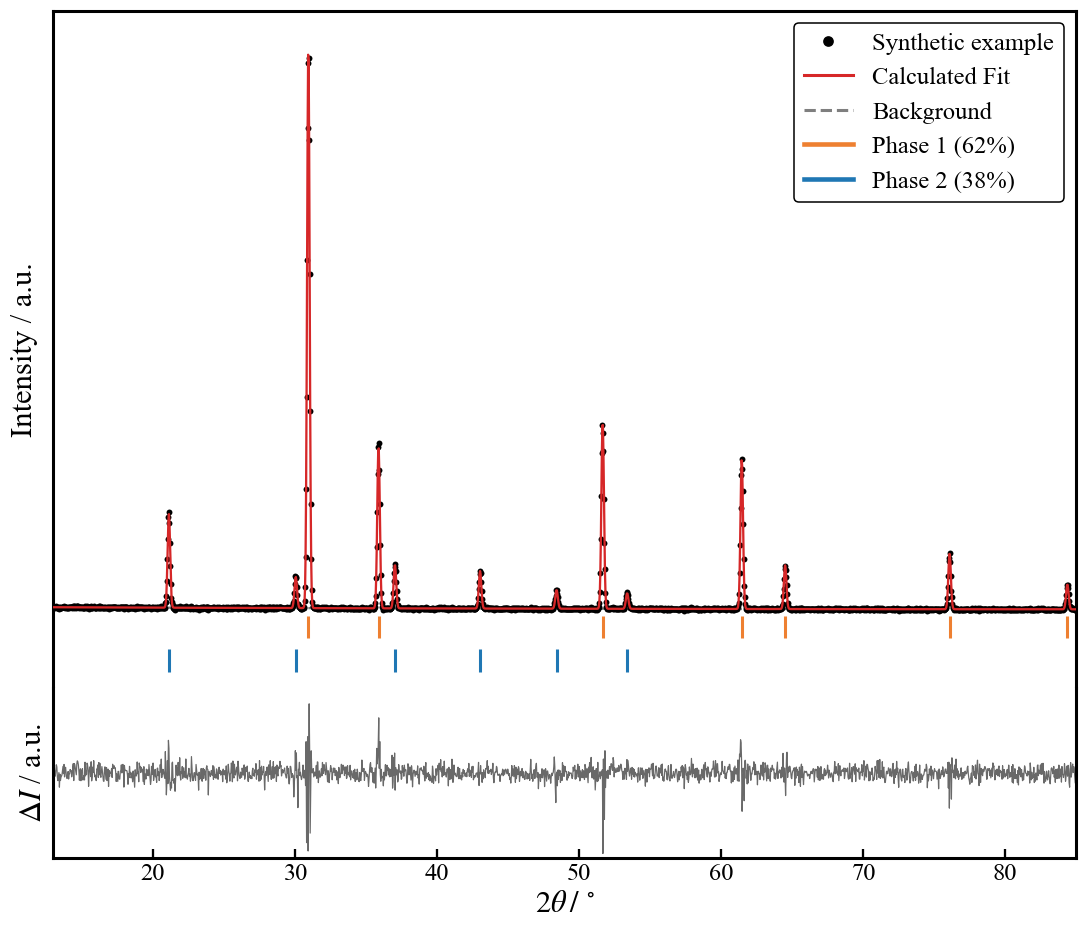
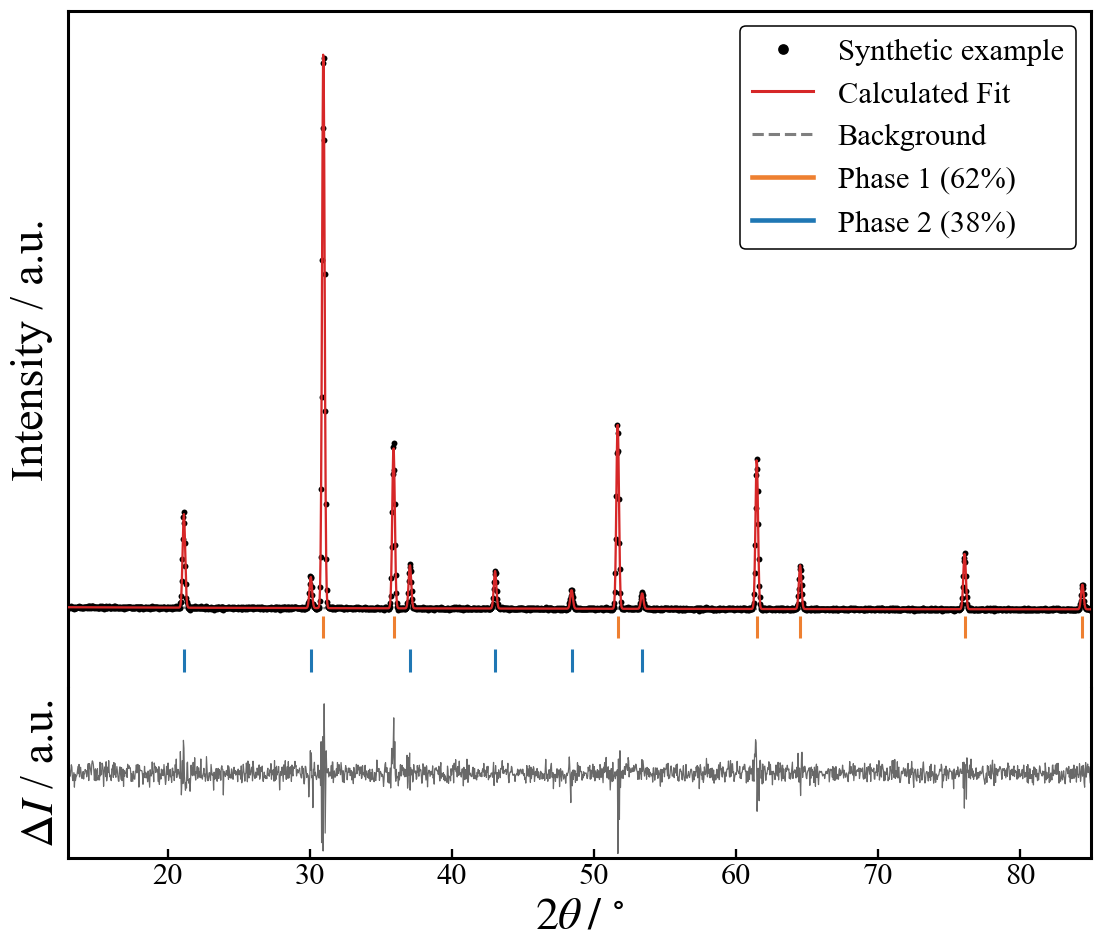
Raise the figure type sizes and redraw the examples
The labels, legend and tick numbers were sized for a figure read at full page
width. Reduced to a journal column they came out small, so the three sizes go
up together and keep their relative proportions.

The example figures are drawn through the same constants, so they are redrawn
in the same commit. Leaving them would put figures in the README that the
code no longer produces.

diff --git a/xrd_plotter.py b/xrd_plotter.py
@@ -63,9 +63,9 @@ LINEWIDTH_RESIDUALS = 0.8
 LINEWIDTH_TICKS = 2.0
 MARKER_SIZE_OBS = 15
 
-FONT_SIZE_LABEL = 20
-FONT_SIZE_LEGEND = 16
-FONT_SIZE_TICK = 16
+FONT_SIZE_LABEL = 30
+FONT_SIZE_LEGEND = 20
+FONT_SIZE_TICK = 20
 
 # Publication typography: serif text, STIX maths. STIXGeneral is the text
 # companion of that maths font and ships inside matplotlib, so a machine
